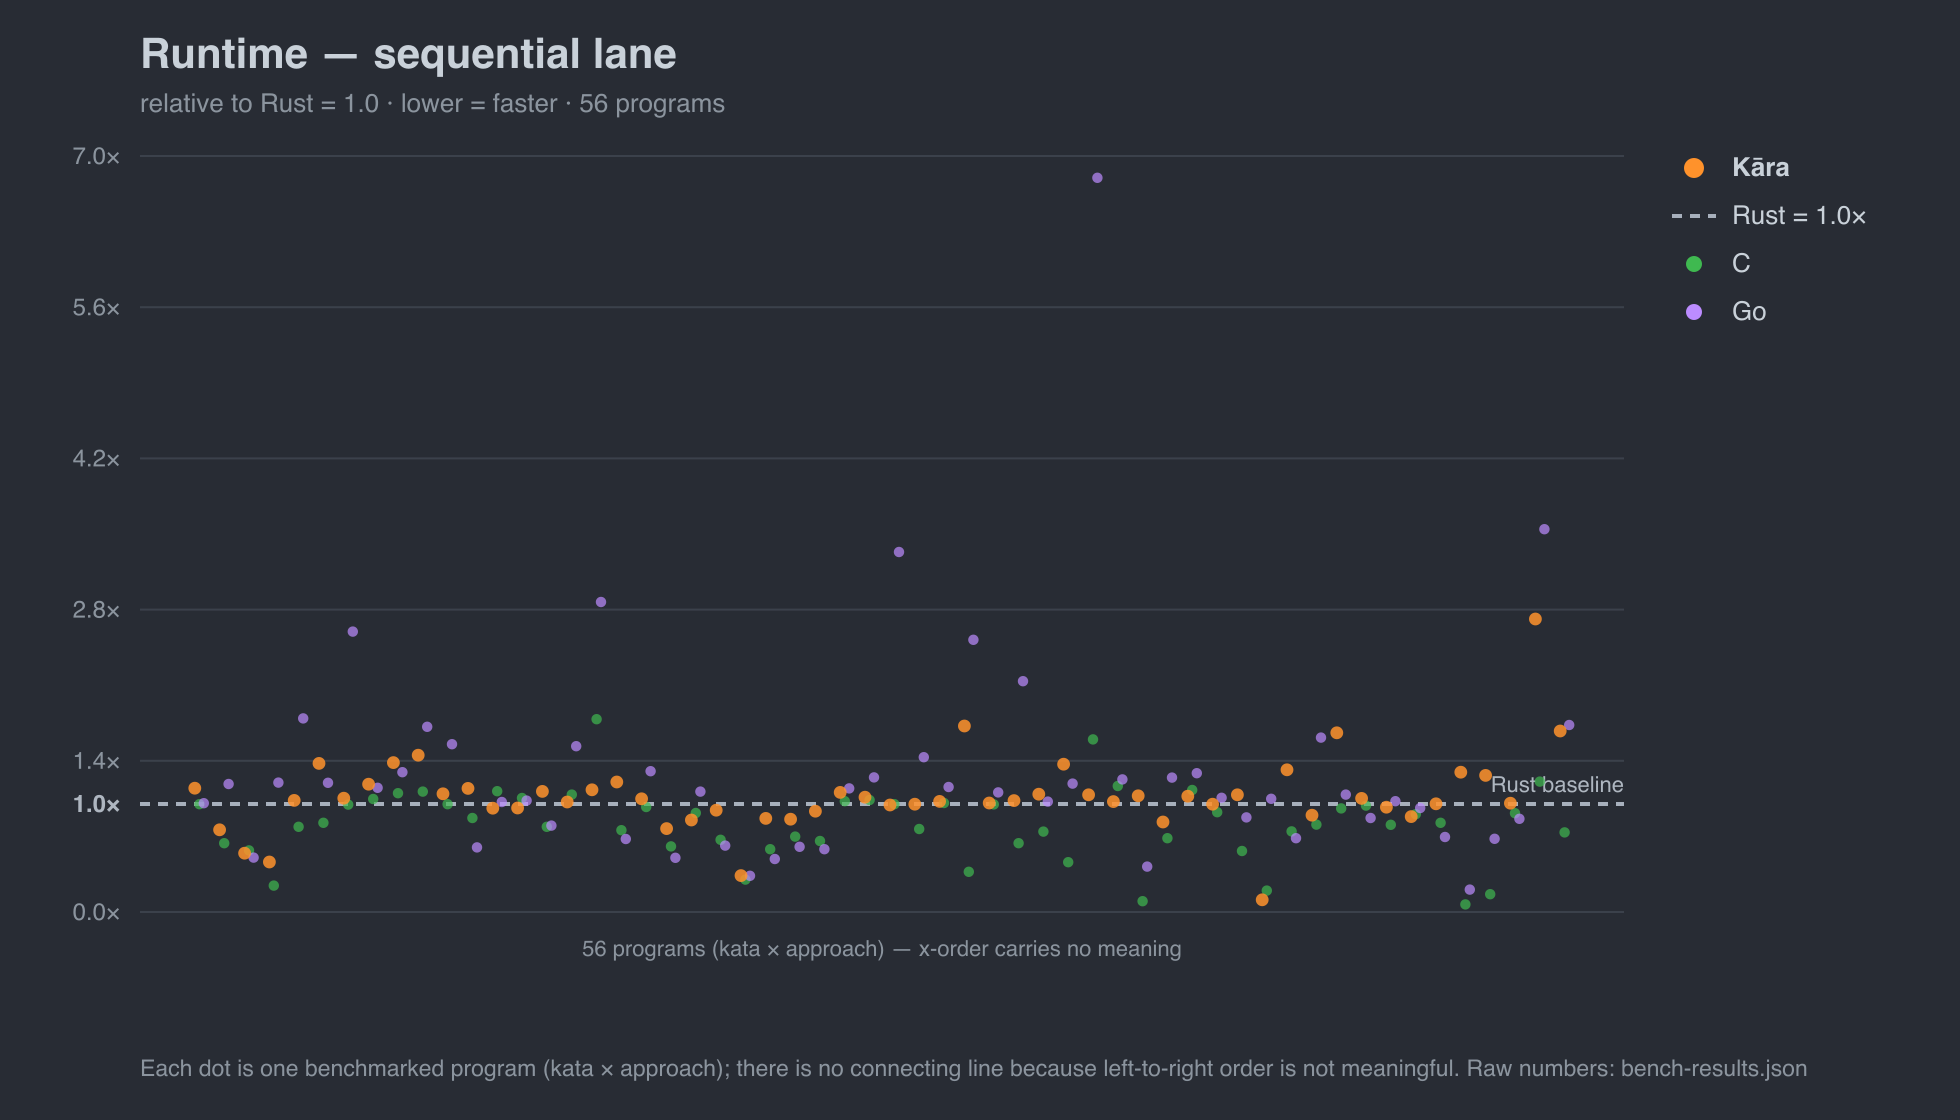
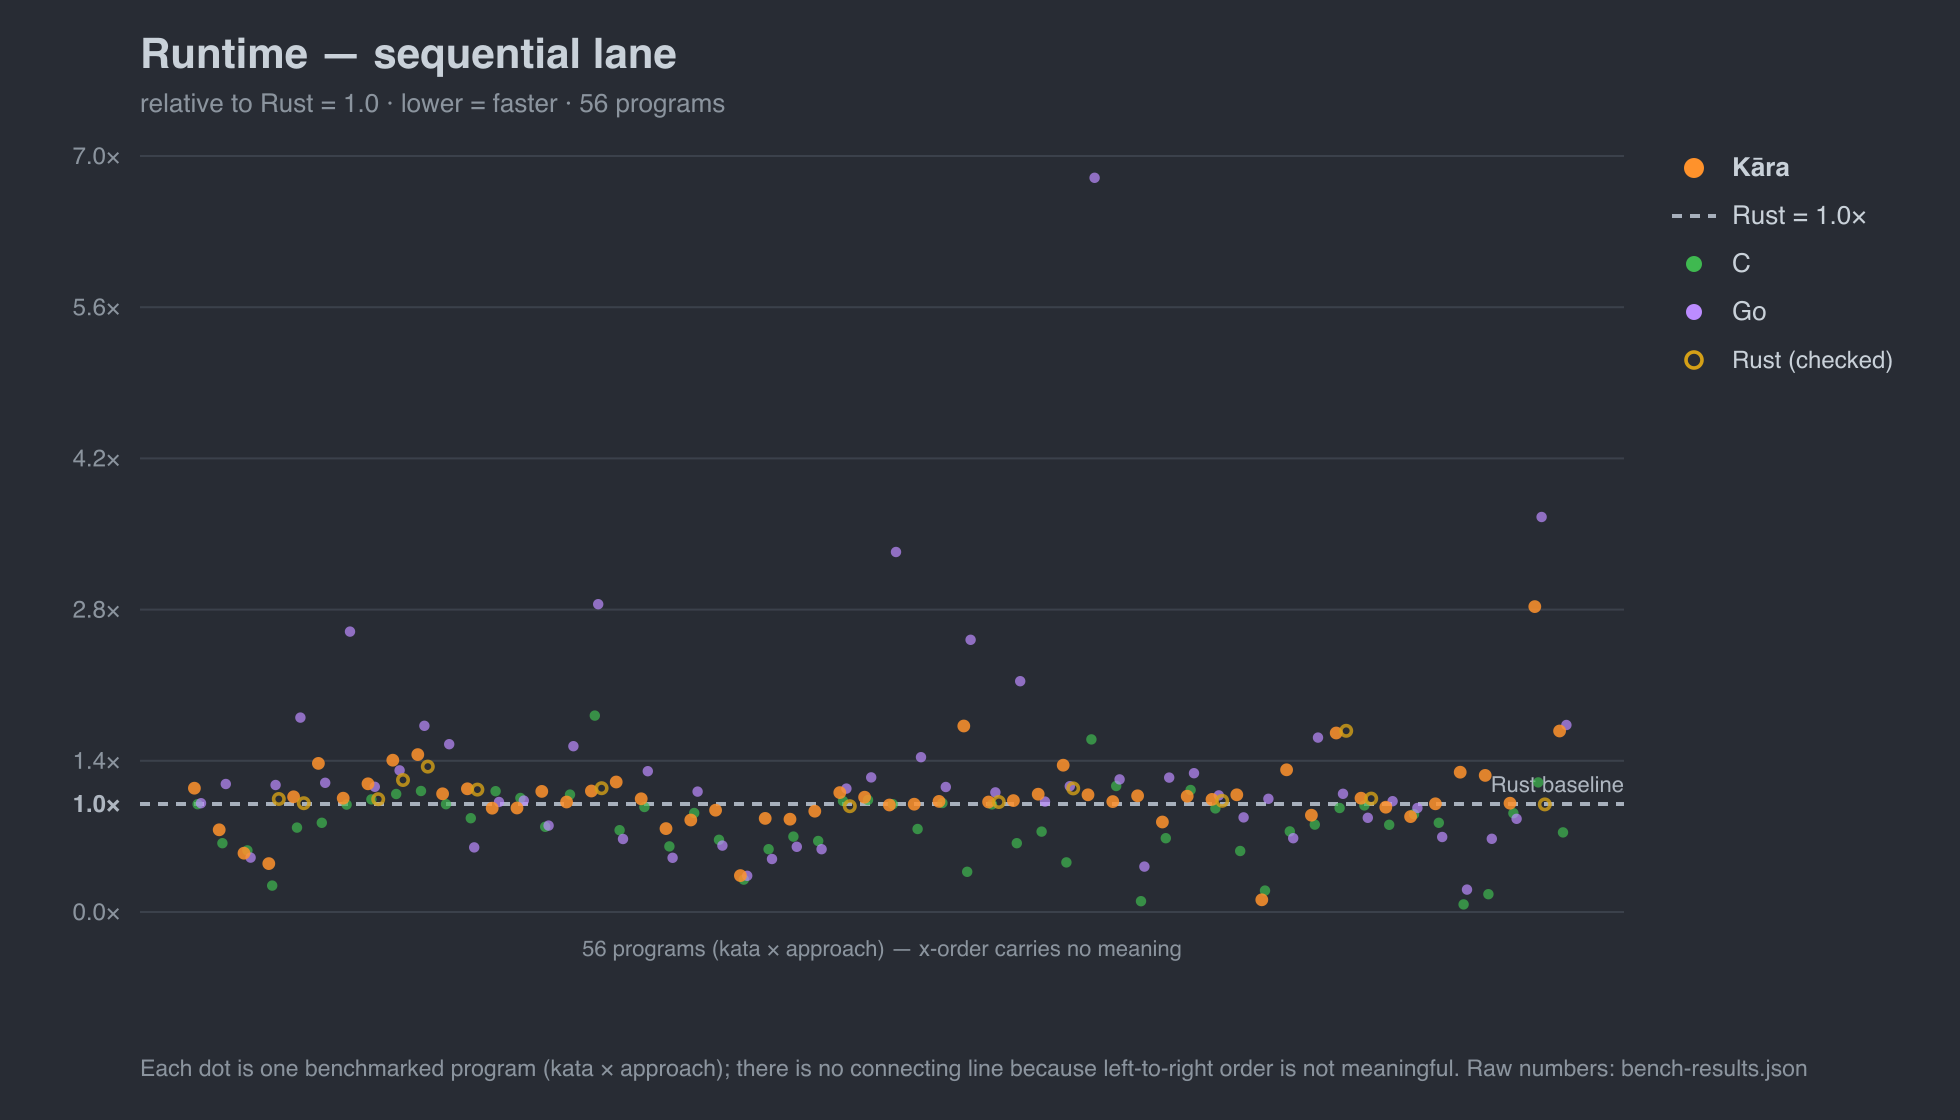
docs(readme): equal-safety Rust overlay on the runtime chart + prose
Mirror the regenerated runtime-seq chart (now overlaying `rust -C
overflow-checks=on` as goldenrod "Rust (checked)" rings) and reframe the
sequential-lane prose: kāra checks integer overflow by default, `rust -O`
wraps, so the gray Rust=1.0 line is unsafe Rust. Against the safety-matched
build kāra is at parity or ahead (the 1.4-1.66x gaps on overflow-heavy katas
collapse to ~1.0x), and emits fewer instructions than checked Rust on 16
collection/pointer kernels. Residue: a few string-build loops (~1.2x, tracked).

diff --git a/README.md b/README.md
@@ -304,9 +304,15 @@ faster; everything relative to **Rust = 1.0**.
 
 ![Runtime, sequential lane — relative to Rust](docs/assets/runtime-seq.png)
 
-Kāra tracks C closely and straddles the Rust baseline — ahead on
-allocation/RC- and string-heavy kernels, behind on a few tight numeric
-loops. Go trails on most single-threaded work.
+Kāra tracks C closely and sits at or below the **Rust (checked)** rings —
+the safety-matched comparison. Kāra checks integer overflow by default;
+`rustc -O` silently wraps, so the gray `Rust = 1.0` line is *unsafe* Rust.
+Overlaid in goldenrod is `rustc -O -C overflow-checks=on` on the katas
+where it diverges; against *that*, Kāra is at parity or ahead (the apparent
+1.4–1.66× gaps on overflow-heavy katas collapse to ~1.0×), and it emits
+**fewer** instructions than safety-matched Rust on 16 collection/pointer
+kernels. The residue is a few string-building loops (~1.2×, tracked). Go
+trails on most single-threaded work.
 
 ![Binary size, sequential lane — relative to Rust, log scale](docs/assets/binary-seq.png)
 